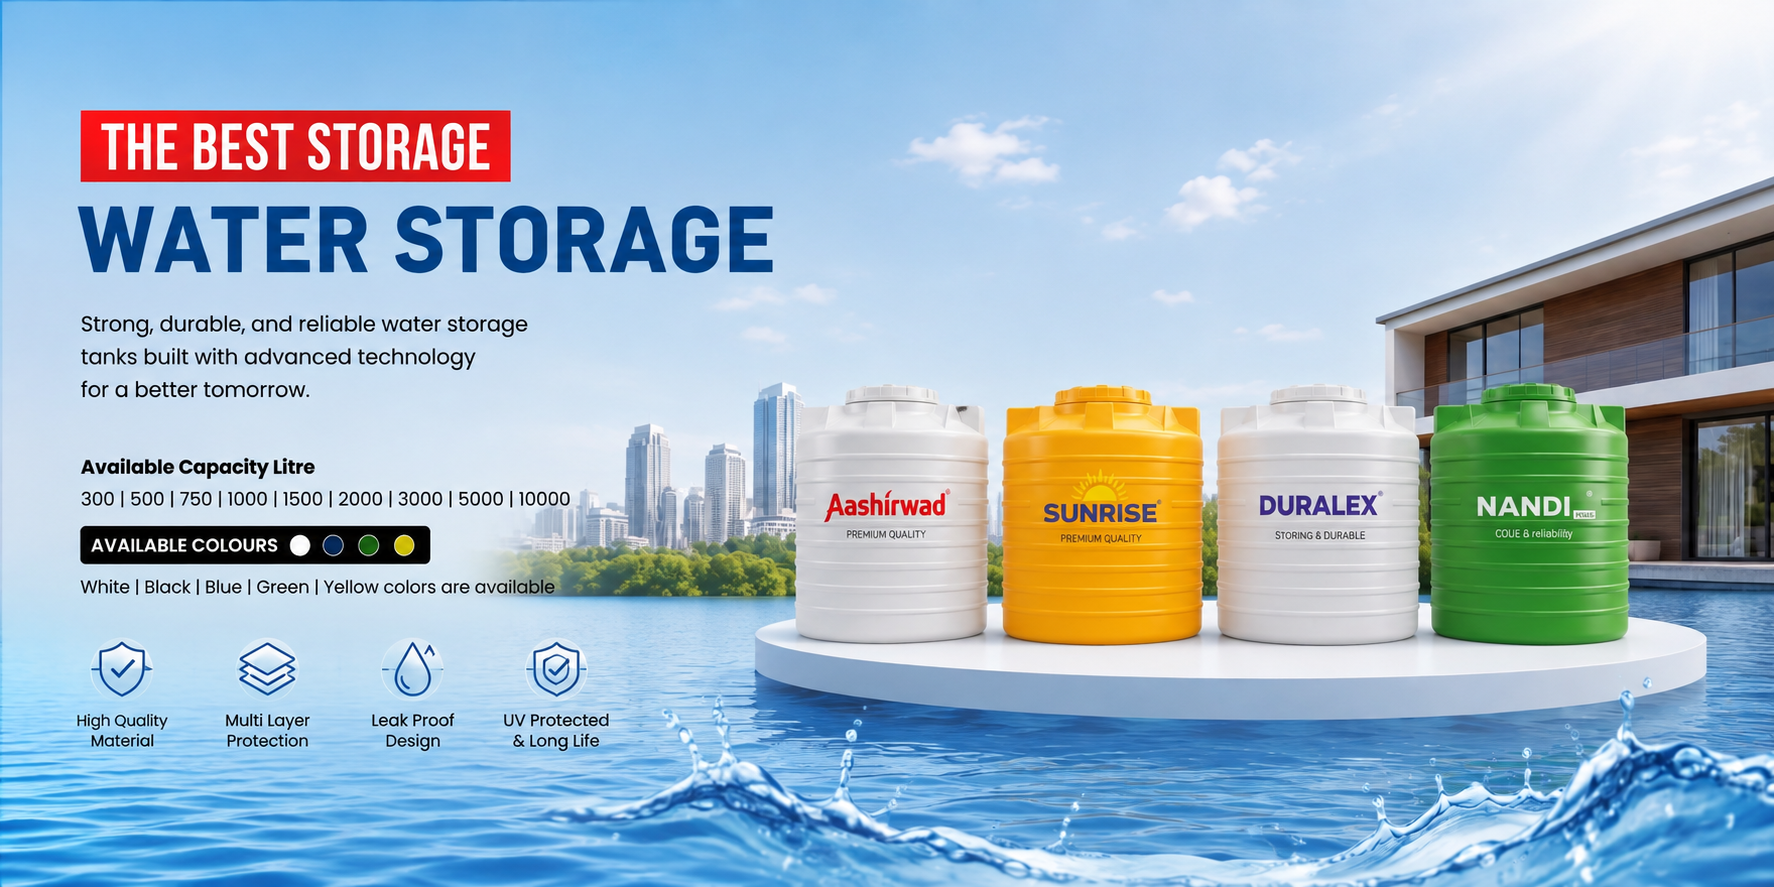
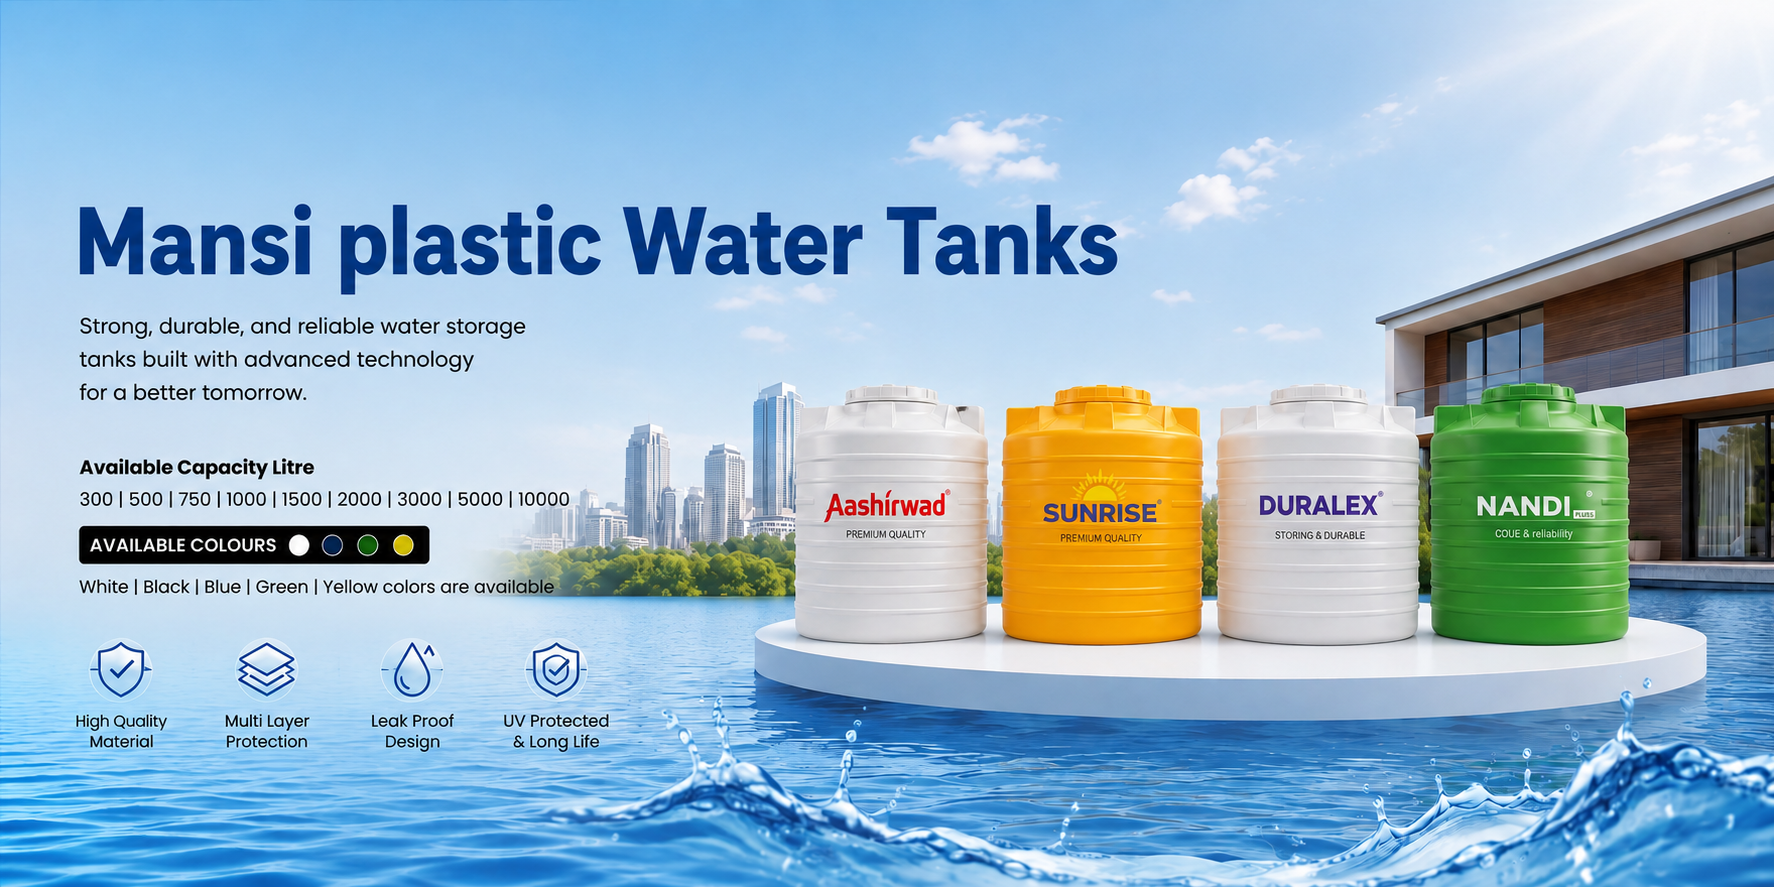
upload mobile images

diff --git a/components/MobileHero.tsx b/components/MobileHero.tsx
@@ -1,0 +1,98 @@
+"use client";
+
+import { useEffect, useRef, useState } from "react";
+import Image from "next/image";
+import { ChevronLeft, ChevronRight } from "lucide-react";
+import { heroSlides } from "@/lib/data";
+
+const SLIDE_DURATION = 6000;
+
+export default function MobileHero() {
+  const [current, setCurrent] = useState(0);
+  const [key, setKey] = useState(0); // forces Ken Burns animation restart
+  const timerRef = useRef<ReturnType<typeof setTimeout> | null>(null);
+
+  const goTo = (index: number) => {
+    const next = (index + heroSlides.length) % heroSlides.length;
+    setCurrent(next);
+    setKey((k) => k + 1);
+  };
+
+  const next = () => goTo(current + 1);
+  const prev = () => goTo(current - 1);
+
+  useEffect(() => {
+    if (timerRef.current) clearTimeout(timerRef.current);
+    timerRef.current = setTimeout(() => {
+      goTo(current + 1);
+    }, SLIDE_DURATION);
+    return () => {
+      if (timerRef.current) clearTimeout(timerRef.current);
+    };
+  }, [current]);
+
+  return (
+    <section
+      id="home"
+      className="relative"
+      aria-roledescription="carousel"
+      aria-label="Featured products"
+    >
+      {heroSlides.map((slide, index) => (
+        <div
+          key={slide.mobileImage}
+          className={`${index === current ? "animate-kenburn" : ""}`}
+          style={{ animationDuration: `${SLIDE_DURATION + 1500}ms` }}
+        >
+          <Image
+            src={slide.mobileImage}
+            alt=""
+            width={1000}
+            height={600}
+            priority={index === 0}
+            sizes="100vw"
+            className="object-cover"
+          />
+        </div>
+      ))}
+
+      {heroSlides.length > 1 && (
+        <>
+          <div className="absolute bottom-8 right-6 md:right-10 z-20 flex items-center gap-3">
+            <button
+              type="button"
+              onClick={prev}
+              aria-label="Previous slide"
+              className="flex h-11 w-11 items-center justify-center rounded-full bg-white/15 text-white backdrop-blur-sm transition-colors hover:bg-white/25"
+            >
+              <ChevronLeft size={22} />
+            </button>
+            <button
+              type="button"
+              onClick={next}
+              aria-label="Next slide"
+              className="flex h-11 w-11 items-center justify-center rounded-full bg-white/15 text-white backdrop-blur-sm transition-colors hover:bg-white/25"
+            >
+              <ChevronRight size={22} />
+            </button>
+          </div>
+
+          <div className="absolute bottom-8 left-6 md:left-10 z-20 flex items-center gap-2">
+            {heroSlides.map((slide, index) => (
+              <button
+                key={slide.heading}
+                type="button"
+                onClick={() => goTo(index)}
+                aria-label={`Go to slide ${index + 1}`}
+                aria-current={index === current}
+                className={`h-2.5 rounded-full transition-all duration-300 ${
+                  index === current ? "w-8 bg-accent" : "w-2.5 bg-white/60"
+                }`}
+              />
+            ))}
+          </div>
+        </>
+      )}
+    </section>
+  );
+}

diff --git a/components/CompanyIntro.tsx b/components/CompanyIntro.tsx
@@ -11,8 +11,8 @@ const brands = ["Aashirwad", "Sunrise", "Duralex", "Nandi Plus"];
 
 export default function CompanyIntro() {
   return (
-    <section className="container-page relative overflow-hidden  py-20 rounded-xl">
-      <div className="container mx-auto px-5">
+    <section className="container-page relative overflow-hidden pb-10 pt-20 rounded-xl">
+      <div className="container mx-auto px-4">
         <div className="grid items-center gap-14 lg:grid-cols-2">
           {/* Left Content */}
           <div>
@@ -77,30 +77,14 @@ export default function CompanyIntro() {
             </div>
           </div>
 
-          {/* Right Side */}
-          <div className="relative">
-            {/* Main Image */}
-            <div className="overflow-hidden rounded-3xl bg-white p-0 shadow-2xl">
-              <Image
-                src="/images/mansiPort.png"
-                alt="Mansi Plastic Water Tank"
-                width={700}
-                height={700}
-                className="mx-auto object-contain transition duration-500 hover:scale-105"
-              />
-            </div>
-
-            {/* Floating Card */}
-            <div className="absolute -left-5 top-8 rounded-2xl bg-white p-5 shadow-xl">
-              <p className="text-3xl font-bold text-primary">4</p>
-              <p className="text-sm text-gray-600">Trusted Brands</p>
-            </div>
-
-            {/* Floating Card */}
-            <div className="absolute -right-5 bottom-10 rounded-2xl bg-primary p-5 text-white shadow-xl">
-              <p className="text-3xl font-bold">15+</p>
-              <p className="text-sm">Years Warranty*</p>
-            </div>
+          <div className="overflow-hidden rounded-2xl bg-white p-0 mx-auto flex justify-center items-center">
+            <Image
+              src="/images/mansiPort.png"
+              alt="Mansi Plastic Water Tank"
+              width={700}
+              height={700}
+              className="object-cover transition duration-500 hover:scale-105"
+            />
           </div>
         </div>
       </div>

diff --git a/app/page.tsx b/app/page.tsx
@@ -10,13 +10,19 @@ import WhyChooseUs from "@/components/WhyChooseUs";
 import EnquiryForm from "@/components/EnquiryForm";
 import Footer from "@/components/Footer";
 import CompanyIntro from "@/components/CompanyIntro";
+import MobileHero from "@/components/MobileHero";
 
 export default function Home() {
   return (
     <>
       <Header isVisible={false} />
       <main>
-        <Hero />
+        <div className="sm:hidden">
+          <MobileHero />
+        </div>
+        <div className="hidden sm:block">
+          <Hero />
+        </div>
         <CompanyIntro />
         <About />
         <WhyChooseUs />

diff --git a/components/About.tsx b/components/About.tsx
@@ -4,7 +4,7 @@ import { aboutSection } from "@/lib/data";
 
 export default function About() {
   return (
-    <section id="about" className="section-padding bg-white">
+    <section id="about" className="pt-10 pb-20 bg-white">
       <div className="container-page grid grid-cols-1 lg:grid-cols-2 gap-10 items-center">
         <div className="relative order-2 lg:order-1">
           <div className="relative aspect-[5/4] w-full mx-auto lg:mx-0 rounded-lg overflow-hidden shadow-card ">

diff --git a/components/Hero.tsx b/components/Hero.tsx
@@ -29,7 +29,6 @@ export default function Hero() {
     return () => {
       if (timerRef.current) clearTimeout(timerRef.current);
     };
-    // eslint-disable-next-line react-hooks/exhaustive-deps
   }, [current]);
 
   return (

diff --git a/lib/data.ts b/lib/data.ts
@@ -18,6 +18,7 @@ export const navLinks: NavLink[] = [
 export const heroSlides: HeroSlide[] = [
   {
     image: "/images/heroslide.png",
+    mobileImage: "/images/heromobile.png",
   },
 ];
 

diff --git a/types/index.ts b/types/index.ts
@@ -5,6 +5,7 @@ export interface NavLink {
 
 export interface HeroSlide {
   image: string;
+  mobileImage: string;
   heading?: string;
   description?: string;
   ctaLabel?: string;
